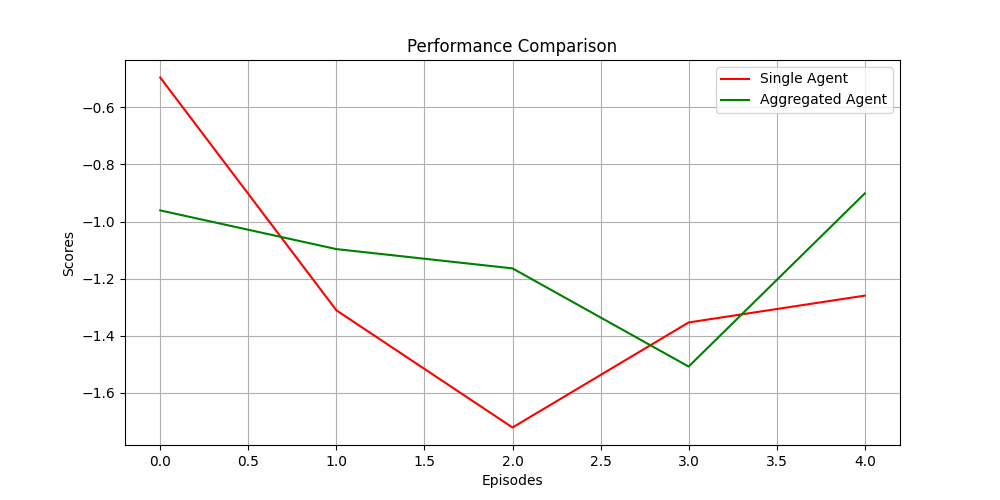
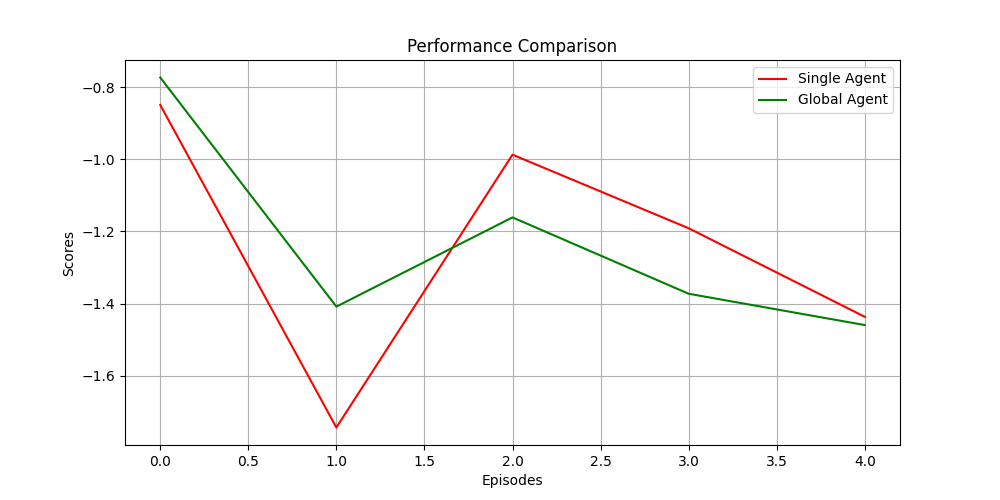
tests

diff --git a/test1.py b/test1.py
@@ -1,0 +1,81 @@
+import unittest
+from env import Environment, load
+from node import Node
+from task import Task
+from schedule import DQN
+from FL_AVG import combine_agents, distribute_agents
+
+class TestEnvironment(unittest.TestCase):
+    def setUp(self):
+        # Define nodes and initialize Environment
+        nodes = [Node([2, 2], 10, "Node1"), Node([2, 2], 10, "Node2")]
+        tasks = [Task([1, 1], 2, "Task1"), Task([1, 1], 3, "Task2")]
+        self.environment = Environment(nodes, 10, 20, task_generator=iter(tasks))
+
+        # Define model shapes and actions for DQN
+        self.model_input_shape = (2, 2, 1)  # Correct shape for Conv2D input
+        self.output_shape = 10  # Number of outputs
+        self.num_actions = 2  # Number of actions
+
+        # Initialize two DQN models for testing
+        self.dqn1 = DQN(self.model_input_shape, self.output_shape, self.num_actions)
+        self.dqn2 = DQN(self.model_input_shape, self.output_shape, self.num_actions)
+
+    def test_initialization(self):
+        """Check initial setup of the environment."""
+        self.assertEqual(len(self.environment.nodes), 2)
+        self.assertEqual(self.environment.queue_size, 10)
+        self.assertEqual(self.environment.backlog_size, 20)
+
+    def test_step_function_no_action(self):
+        """Verify that no action results in expected state changes."""
+        initial_reward, initial_state, initial_done = self.environment.step(self.environment.get_number_of_actions() - 1)
+        self.assertTrue(initial_reward <= 0, "Reward should be zero or negative for no action")
+        self.assertFalse(initial_done, "Environment should not terminate on no action")
+        self.assertIsNotNone(initial_state, "Next state should still be provided")
+
+    def test_task_scheduling(self):
+        """Ensure task scheduling updates queue and node state."""
+        # Add a task to the environment's queue directly for controlled testing
+        task_to_schedule = Task([1, 1], 2, "Task1")
+        self.environment.queue.append(task_to_schedule)
+        initial_task_count = len(self.environment.queue)
+        initial_node_task_count = sum(len(node.scheduled_tasks) for node in self.environment.nodes)
+
+        # Attempt to schedule the first task in the queue
+        self.environment.step(0)  # Assuming 0 targets the first task for the first node
+
+        # Check if the task count in the queue decreased
+        self.assertEqual(len(self.environment.queue), initial_task_count - 1, "Queue should decrease by 1")
+
+        # Optionally, check if the task count on the node increased (if your environment tracks this)
+        new_node_task_count = sum(len(node.scheduled_tasks) for node in self.environment.nodes)
+        self.assertEqual(new_node_task_count, initial_node_task_count + 1, "Node task count should increase by 1")
+
+        # Verify that the task scheduled is the one intended (if applicable)
+        # This part depends on your environment's implementation details
+
+
+class TestFederatedLearning(unittest.TestCase):
+    def setUp(self):
+        # Define model input shape, output shape, and actions
+        self.model_input_shape = (4, 4, 1)  # Adjusted shape to match Conv2D requirements
+        self.output_shape = 2  # Adjusted based on actual network configuration
+        self.num_actions = 2
+
+        # Initialize two DQN models for federated learning tests
+        self.dqn1 = DQN(self.model_input_shape, self.output_shape, self.num_actions)
+        self.dqn2 = DQN(self.model_input_shape, self.output_shape, self.num_actions)
+
+    def test_combine_agents(self):
+        """Test if combining agents properly averages their parameters."""
+        combined_dqn = combine_agents(self.dqn1, [self.dqn1, self.dqn2], [0.5, 0.5])
+        # Assertions to verify that parameters have been averaged should be implemented here
+
+    def test_distribute_agents(self):
+        """Ensure that distributing weights updates all agents equally."""
+        distribute_agents(self.dqn1, [self.dqn1, self.dqn2])
+        # Assertions to verify that weights are equally distributed should be implemented here
+
+if __name__ == '__main__':
+    unittest.main()

diff --git a/__main__.py b/__main__.py
@@ -13,10 +13,10 @@ def test_agent(environment, scheduler, runs_test=3):
     return sum(total_scores) / len(total_scores) if total_scores else 0
 
 def main():
-    print('Start---')
+    print('Starting Simulation...')
 
     number_of_agents = 3
-    environments, _ = zip(*[env.load() for _ in range(number_of_agents)])
+    environments, schedulers = zip(*[env.load() for _ in range(number_of_agents)])
     dqn_schedulers = [SchedulerTrain(environment) for environment in environments]
 
     global_environment, global_dqn_scheduler = env.load()
@@ -32,22 +32,30 @@ def main():
             score = test_agent(environments[i], scheduler)
             local_scores.append(score)
 
+        # Combining and distributing agent weights
         global_dqn_scheduler = combine_agents(global_dqn_scheduler, dqn_schedulers, local_scores)
         dqn_schedulers = distribute_agents(global_dqn_scheduler, dqn_schedulers)
 
+        # Testing both single and global agents
         score_single = test_agent(single_environment, single_dqn_scheduler)
         scores_single_agent.append(score_single)
         score_global = test_agent(global_environment, global_dqn_scheduler)
         scores_global_agent.append(score_global)
 
-    pd.DataFrame({
+        # Optionally, print scheduling info
+        print(f"Run {run + 1}: Single Agent Score = {score_single}, Global Agent Score = {score_global}")
+
+    # Save scores to CSV
+    score_data = {
         'Single Agent': scores_single_agent,
         'Global Agent': scores_global_agent
-    }).to_csv('agent_scores_comparison.csv', index=False)
+    }
+    pd.DataFrame(score_data).to_csv('agent_scores_comparison.csv', index=False)
 
+    # Plotting the scores for visual comparison
     plt.figure(figsize=(10, 5))
     plt.plot(scores_single_agent, label='Single Agent', color='red')
-    plt.plot(scores_global_agent, label='Aggregated Agent', color='green')
+    plt.plot(scores_global_agent, label='Global Agent', color='green')
     plt.title('Performance Comparison')
     plt.xlabel('Episodes')
     plt.ylabel('Scores')

diff --git a/FL_AVG.py b/FL_AVG.py
@@ -5,15 +5,17 @@ def combine_agents(main_agent, agents, scores):
     total_score = sum(scores)
     if total_score == 0:
         print("Warning: Total score is zero. Agents will not be updated.")
-        return main_agent  # or handle this case differently based on your needs
+        return main_agent
 
-    for i in range(len(agents)):
-        for main_param, agent_param in zip(main_agent.dqn_train.model.trainable_variables, agents[i].dqn_train.model.trainable_variables):
-            if i == 0:
-                main_param.assign(agent_param * (scores[i] / total_score))
-            else:
-                main_param.assign_add(agent_param * (scores[i] / total_score))
-
+    for i, agent in enumerate(agents):
+        agent_weights = agent.model_train.get_weights()
+        if i == 0:
+            combined_weights = [weight * (scores[i] / total_score) for weight in agent_weights]
+        else:
+            for j in range(len(combined_weights)):
+                combined_weights[j] += agent_weights[j] * (scores[i] / total_score)
+    
+    main_agent.model_train.set_weights(combined_weights)
     return main_agent
 
 
@@ -36,10 +38,7 @@ def combine_agents_reward_based(main_agent, agents, scores):
     return main_agent
 
 def distribute_agents(main_agent, agents):
-    for i in range(len(agents)):
-        for main_agent_param, agent_param in zip(main_agent.dqn_target.model.trainable_variables,  agents[i].dqn_target.model.trainable_variables):
-            agent_param.assign(main_agent_param)
-        for main_agent_param, agent_param in zip(main_agent.dqn_train.model.trainable_variables, agents[i].dqn_train.model.trainable_variables):
-            agent_param.assign(main_agent_param)
+    main_weights = main_agent.model_train.get_weights()  # Assuming model_train is correct
+    for agent in agents:
+        agent.model_train.set_weights(main_weights)
     return agents
-

diff --git a/schedule.py b/schedule.py
@@ -3,7 +3,7 @@
 import datetime
 import os
 from abc import ABC, abstractmethod
-
+import env
 import numpy as np
 import tensorflow as tf
 from tensorflow.keras.models import Sequential
@@ -139,10 +139,14 @@ class DQN(object):
         self.optimizer = tf.optimizers.Adam(self.lr)
         self.model = self._create_model(input_shape, output_shape)
         self.experience = {'s': [], 'a': [], 'r': [], 's2': [], 'done': []}  # Initialize replay buffer
-
+        reshaped_input_shape = (2, 2, 1)  # Reshape (4,) to (2, 2, 1)
+        self.model = self._create_model(reshaped_input_shape, output_shape)
+        self.model_train = self._create_model(input_shape, output_shape)
+        self.model_target = self._create_model(input_shape, output_shape)
+    
     def _create_model(self, input_shape, output_shape):
         model = Sequential([
-            Input(shape=input_shape),
+            Input(shape=input_shape),  # Correct input shape e.g., (28, 28, 1) for MNIST data
             Conv2D(32, (3, 3), activation='relu'),
             MaxPooling2D(),
             Flatten(),
@@ -151,6 +155,7 @@ class DQN(object):
         ])
         model.compile(optimizer='adam', loss='mean_squared_error')
         return model
+
     
     def get_action(self, states, epsilon=None):
         if epsilon is None:

diff --git a/test2.py b/test2.py
@@ -1,0 +1,24 @@
+from FL_AVG import combine_agents, distribute_agents
+from schedule import DQN
+
+from schedule import DQN
+import unittest
+class TestFederatedLearning(unittest.TestCase):
+    def setUp(self):
+        self.model_input_shape = (2, 2, 1)  # Example shape
+        self.output_shape = 10  # Example output size
+        self.num_actions = 2
+        self.dqn1 = DQN(self.model_input_shape, self.output_shape, self.num_actions)
+        self.dqn2 = DQN(self.model_input_shape, self.output_shape, self.num_actions)
+    def test_combine_agents(self):
+        """ Test if combining agents properly averages their parameters. """
+        combined_dqn = combine_agents(self.dqn1, [self.dqn1, self.dqn2], [0.5, 0.5])
+        # You would add assertions here to check if the parameters are indeed averaged
+
+    def test_distribute_agents(self):
+        """ Test if distributing weights updates all agents equally. """
+        distribute_agents(self.dqn1, [self.dqn1, self.dqn2])
+        # Assertions to check if dqn1 and dqn2 now share the same weights
+
+if __name__ == '__main__':
+    unittest.main()

diff --git a/env.py b/env.py
@@ -6,7 +6,7 @@ import random
 
 import numpy as np
 from PIL import Image
-
+from schedule import CompactScheduler
 from node import Node
 from task import Task
 from schedule import CompactScheduler
@@ -26,7 +26,9 @@ class Environment:
         self.timestep_counter = 0
         self._task_generator = task_generator
         self._task_generator_end = False
-
+    def load_scheduler():
+        from schedule import CompactScheduler
+        return CompactScheduler()
     
     def get_number_of_actions(self):
         """Calculate the number of possible actions."""
